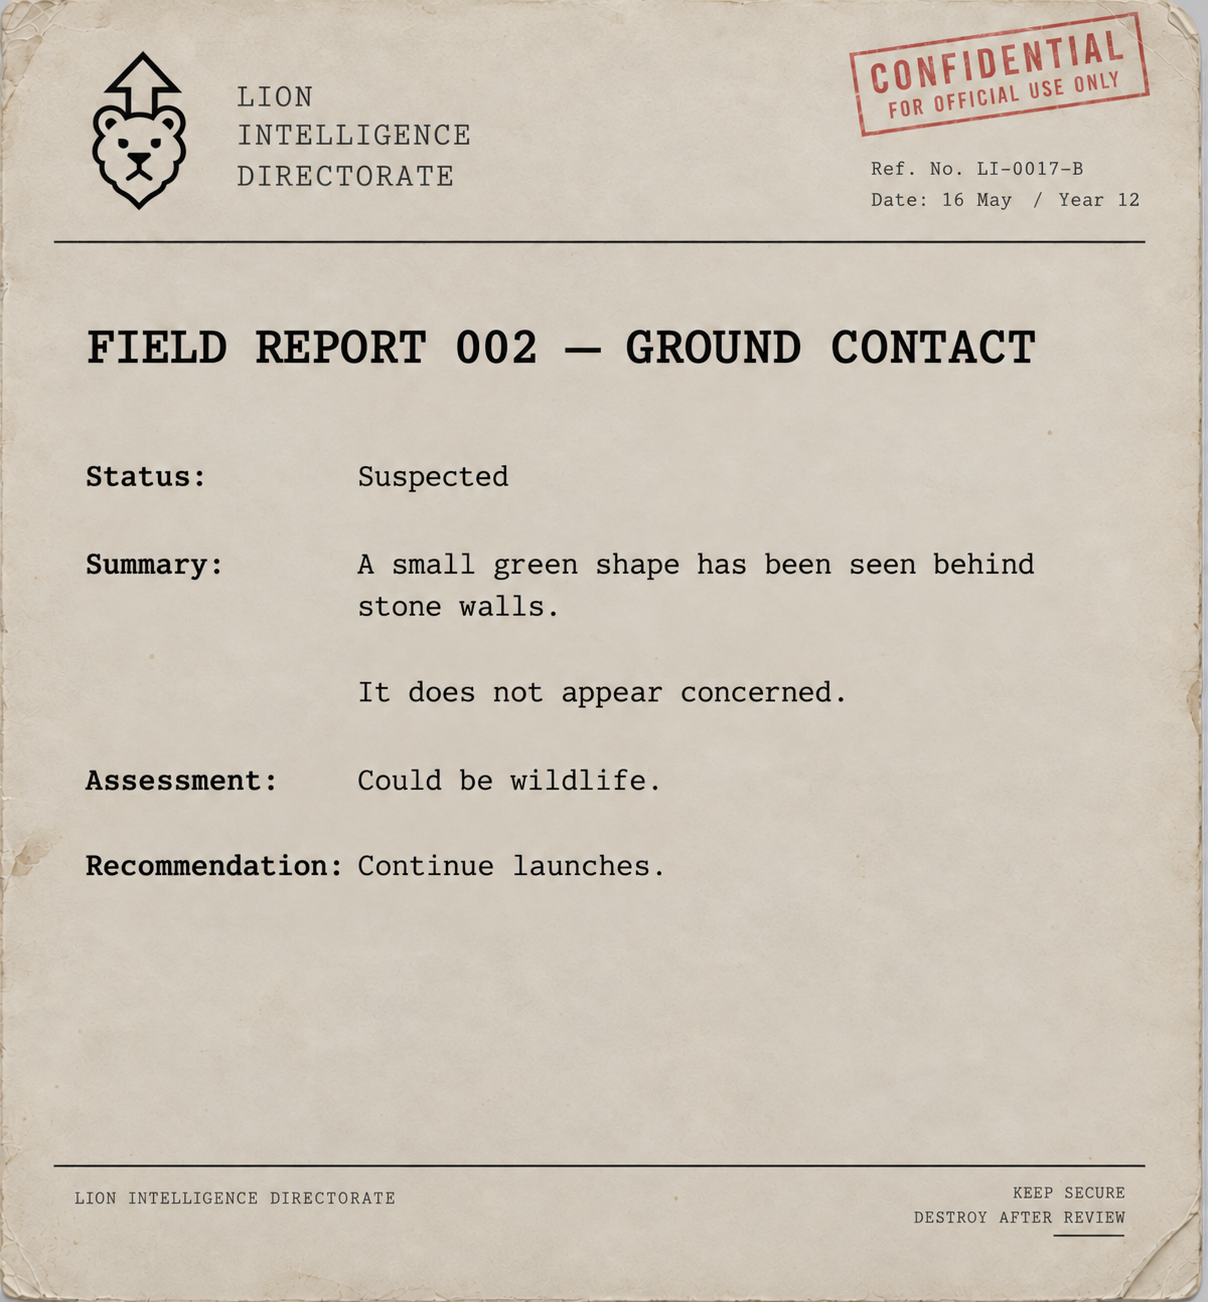
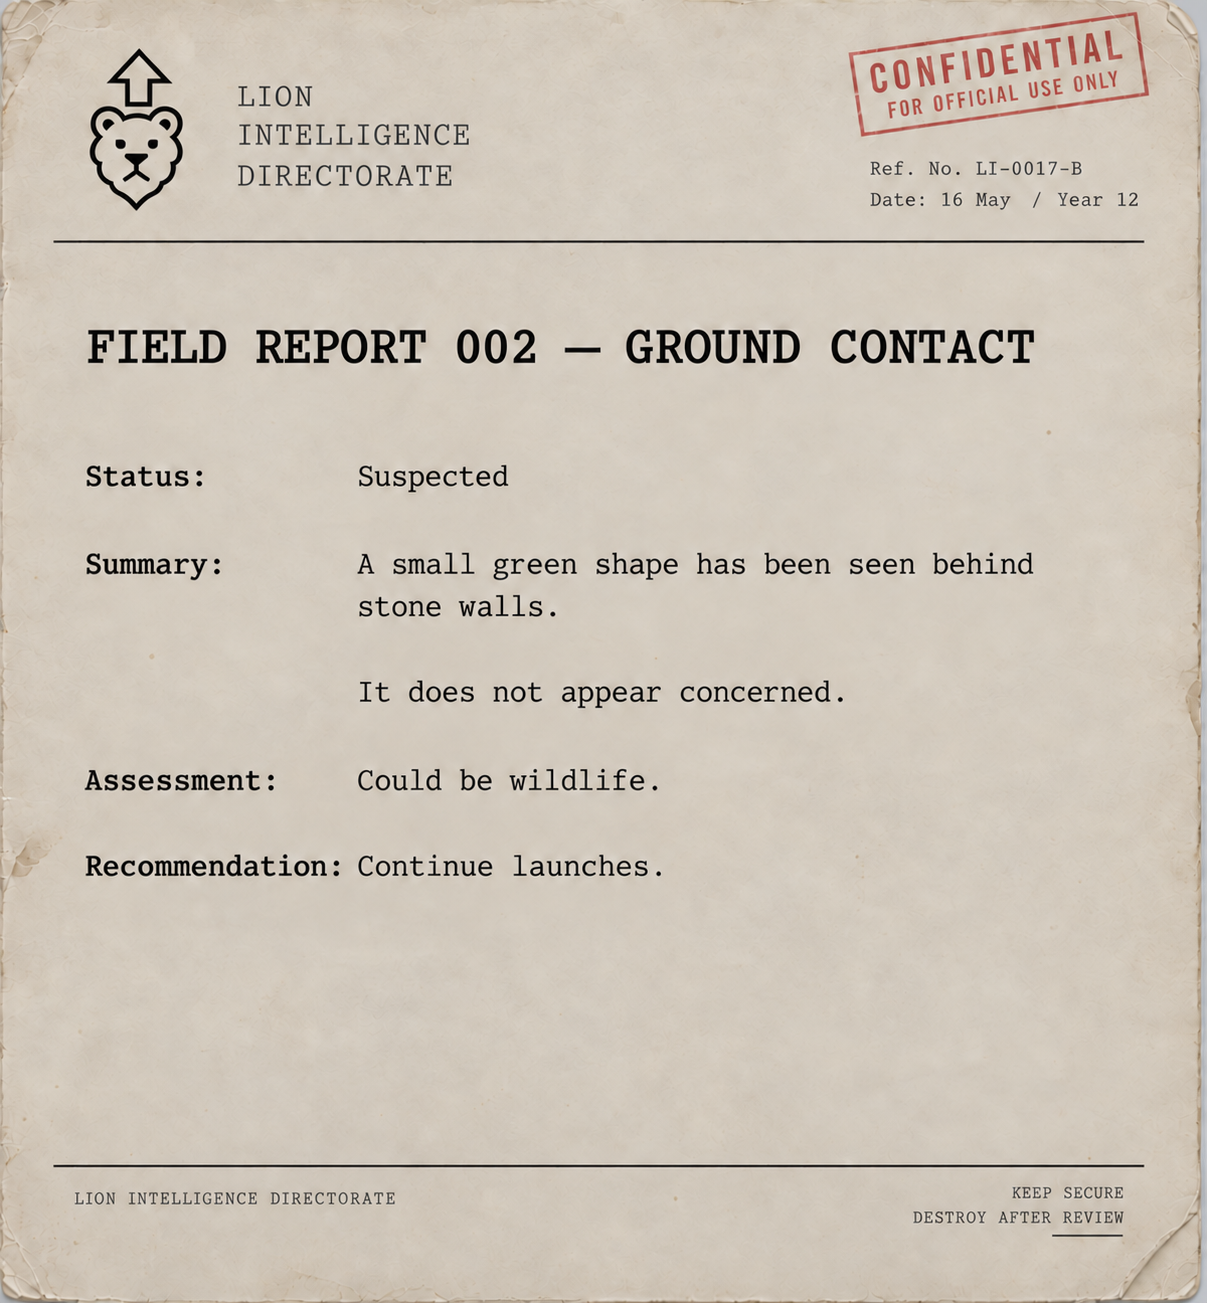
field reports2

diff --git a/lib/field-reports.ts b/lib/field-reports.ts
@@ -8,7 +8,7 @@ export const fieldReports = [
   {
     id: "002", title: "Ground Contact",
     image: "/images/intelligence/field-reports/field-report-002-ground-contact.png",
-    width: 1208, height: 1302,
+    width: 1207, height: 1303,
     alt: "Lion Intelligence Field Report 002 — Ground Contact. Status: Suspected. A small green shape has been seen behind stone walls. It does not appear concerned. Assessment: Could be wildlife. Recommendation: Continue launches.",
   },
   {
@@ -22,5 +22,17 @@ export const fieldReports = [
     image: "/images/intelligence/field-reports/field-report-004-tongue-weapon.png",
     width: 1122, height: 1402,
     alt: "Lion Intelligence Field Report 004 — Tongue Weapon. Status: Confirmed. The suspected Frog appears to attack balloons using its tongue. No ammunition observed. No reload observed. Assessment: This is inconvenient. Witness sketch: a frog striking a Lion balloon from behind a stone wall. Tongue extends farther than expected.",
+  },
+  {
+    id: "005", title: "Frogs Confirmed",
+    image: "/images/intelligence/field-reports/field-report-005-frogs-confirmed.png",
+    width: 1122, height: 1402,
+    alt: "Lion Intelligence Field Report 005 — Frogs Confirmed. Status: Active Threat. They are Frogs. There are several. They have walls. Assessment: Previous weather theory withdrawn.",
+  },
+  {
+    id: "006", title: "Armored Frog",
+    image: "/images/intelligence/field-reports/field-report-006-armored-frog.png",
+    width: 1198, height: 1313,
+    alt: "Lion Intelligence Field Report 006 — Armored Frog. Status: Escalation. A Frog has been observed wearing armor. The Frog appears pleased with this arrangement. Assessment: Threat increased. Witness sketch: an armored frog behind a stone wall on a floating island. Protective shell observed. Frog appears satisfied.",
   },
 ] as const;
